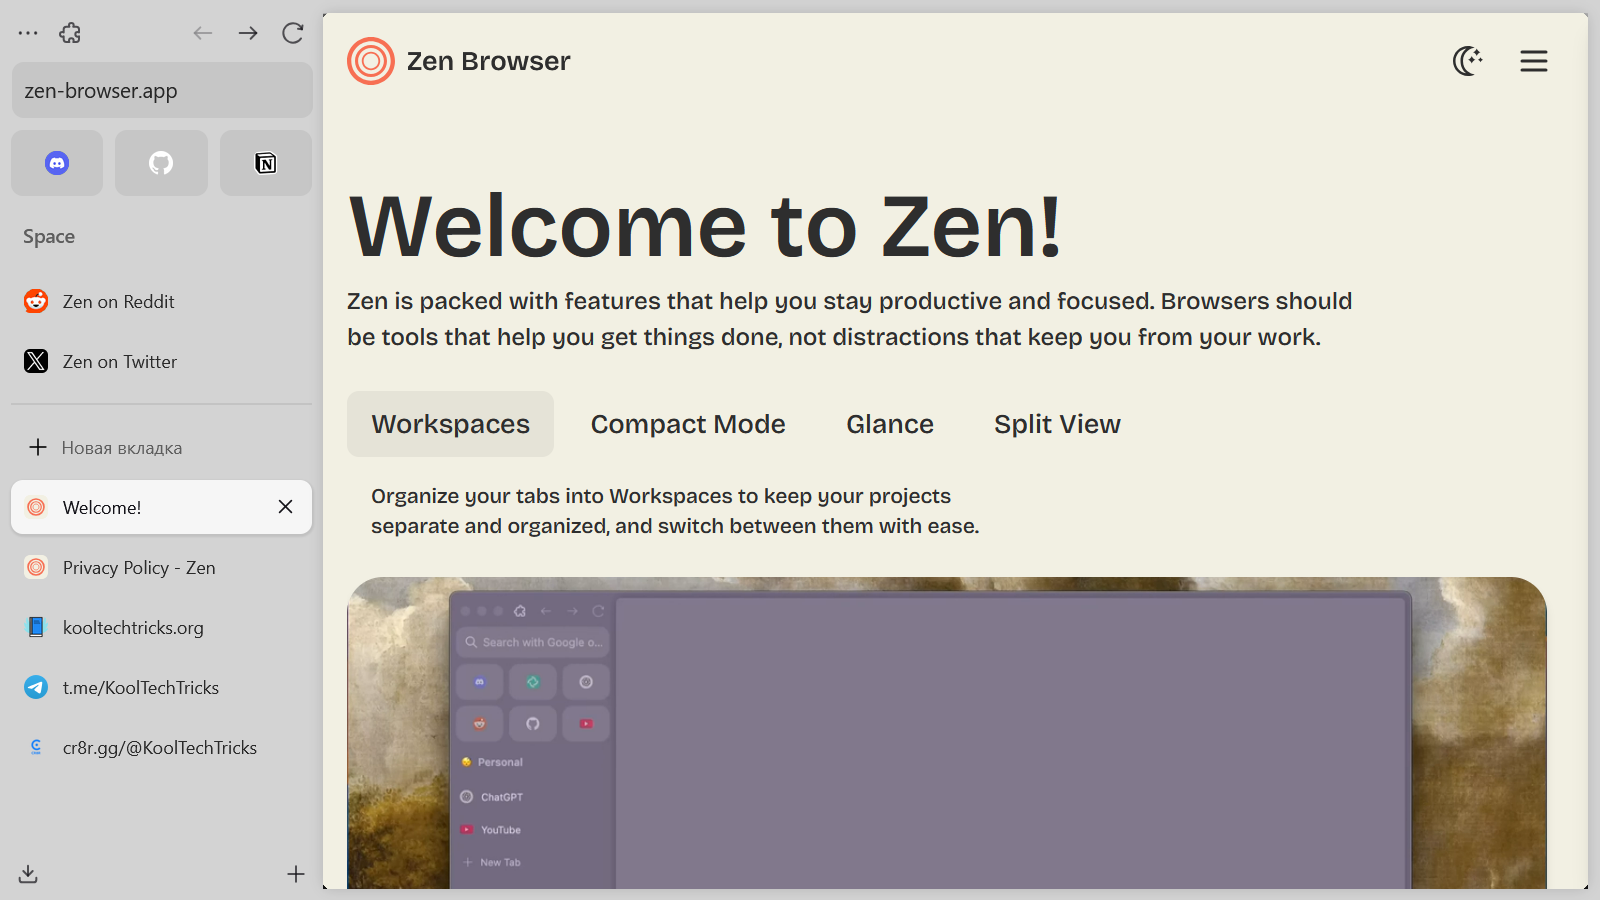
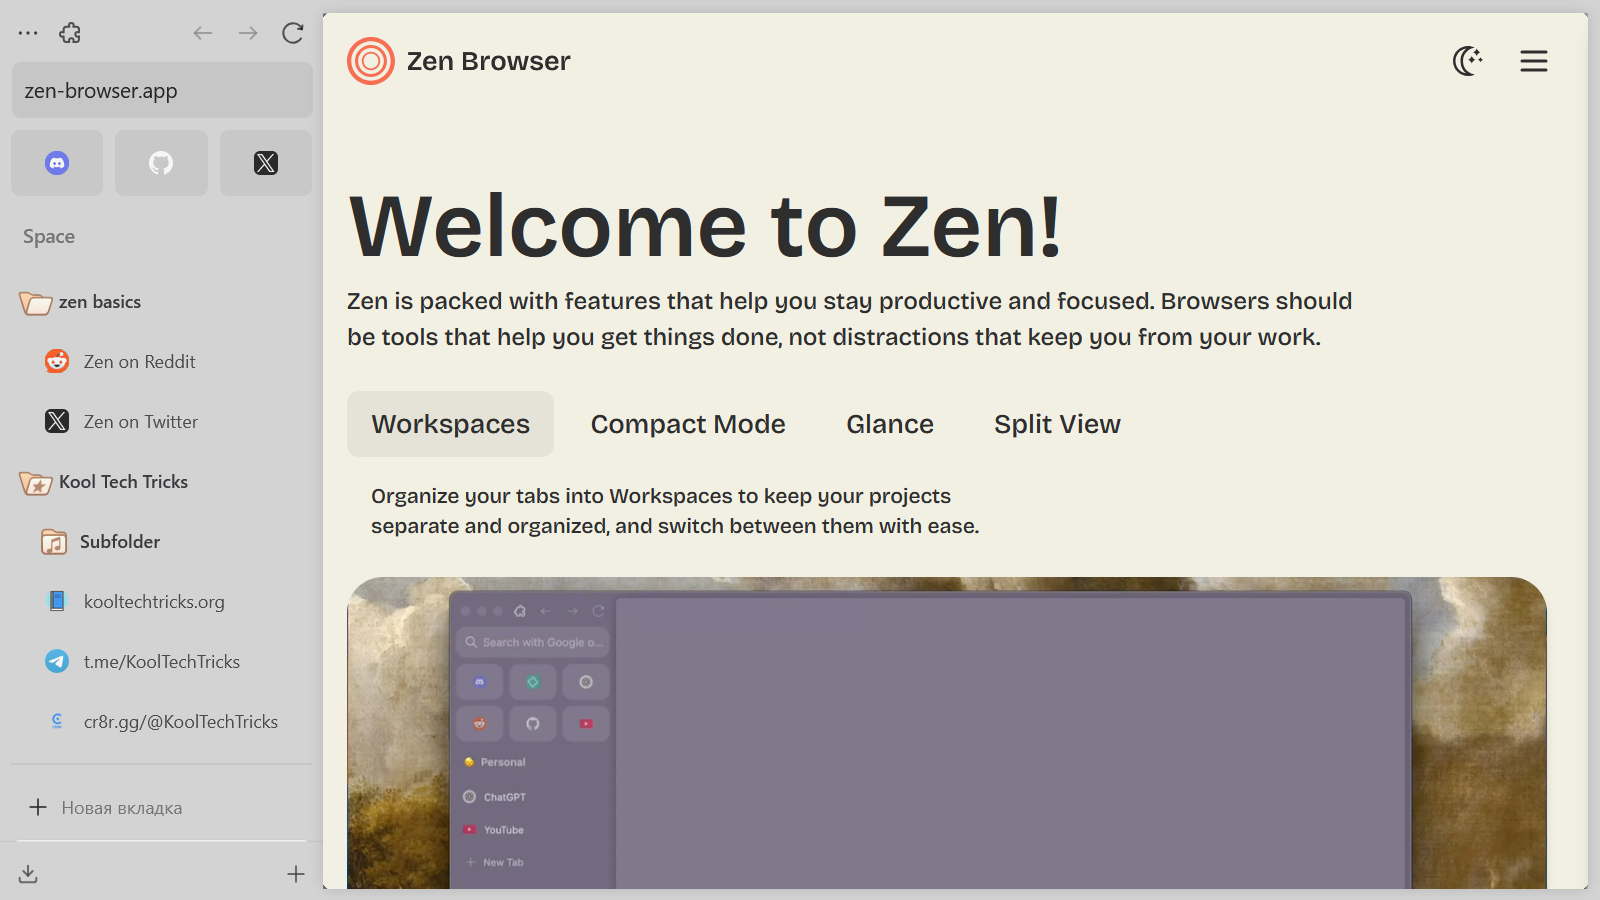
c/browsers-desktop: Zen 1.15b Папки для вкладок

diff --git a/content/collections/browsers-desktop.md b/content/collections/browsers-desktop.md
@@ -2,7 +2,7 @@
 title: Браузеры для компьютера
 fancyTitle: Рекомендованные браузеры для компьютера
 publishDate: 2025-08-07T15:49:00Z
-lastmod: 2025-08-24T09:08:00Z
+lastmod: 2025-08-27T17:17:00Z
 contributors: [kttrickster]
 cards: desktop
 ---
@@ -115,11 +115,11 @@ arkenfox и конфигурации Firefox.
 {{< card zen-browser >}}
 
 Этот браузер совсем не похож на остальные. Панель вкладок и инструменты
-расположены вертикально сбоку. Вкладки можно группировать по «Пространствам» с
-опциональным выбором контейнера. Между пространствами можно переключаться, но
-«Важные» вкладки будут отображаться всегда. Alt+клик откроет предпросмотр
-ссылки в модальном окне. Несколько вкладок можно отображать раздельно в одном
-окне.
+расположены вертикально сбоку. Вкладки можно складывать в папки и группировать
+по «Пространствам» с опциональным выбором контейнера. Между пространствами можно
+переключаться, но «Важные» вкладки будут отображаться всегда. Alt+клик откроет
+предпросмотр ссылки в модальном окне. Несколько вкладок можно отображать
+раздельно в одном окне.
 
 Сочетания клавиш можно настраивать. Доступен каталог
 [модификаций](https://zen-browser.app/mods): темы для Zen.
